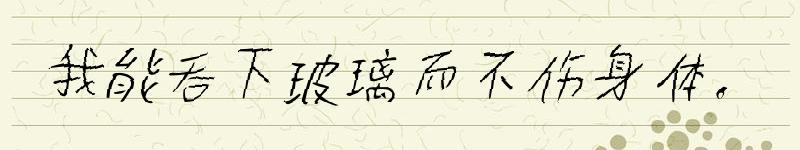
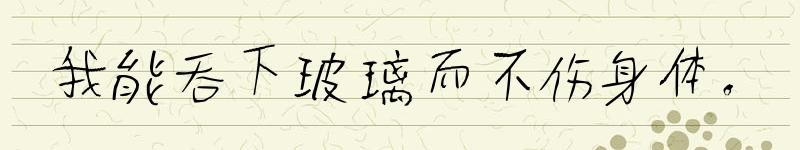
del test_expovariate.py; update test_handwrite.py; minor change of pylf.core; update demo.

Changed region(s): [[0.0625, 0.2933, 0.9375, 0.72], [0.25, 0.3467, 0.2812, 0.3733]]

diff --git a/pylf/core.py b/pylf/core.py
@@ -65,8 +65,9 @@ def handwrite(text, template: dict, anti_aliasing: bool=True, worker: int=0) -> 
 
     :param anti_aliasing: whether or not turn on the anti-aliasing.
         It will do the anti-aliasing with using 2X SSAA. Generally, to turn off this anti-aliasing option would
-        significantly reduce the calculation.
+        significantly reduce the computational cost.
         default True.
+
     :param worker: the number of worker.
         if worker <= 0, the actual amount of worker would be multiprocessing.cpu_count() + worker.
         default 0 (use all available CPU in the computer).
@@ -220,13 +221,15 @@ def _perturb_factory(x_amplitude, y_amplitude, x_wavelength, y_wavelength, x_lam
 
 
 def _downsample(image):
-    width, height = image.size
-    sampled_image = PIL.Image.new('RGBA', (width//2, height//2), color=(0, 0, 0, 0))
-    spx = sampled_image.load()
-    px = image.load()
-    for x in range(0, width, 2):
-        for y in range(0, height, 2):
-            spx[x//2, y//2] = tuple(sum(i)//4 for i in zip(px[x, y], px[x+1, y], px[x, y+1], px[x+1, y+1]))
+    """
+    Downsample for 2X SSAA.
+    """
+    width, height = image.size[0] // 2, image.size[1] // 2
+    sampled_image = PIL.Image.new('RGBA', (width, height), color=(0, 0, 0, 0))
+    spx, px = sampled_image.load(), image.load()
+    for x in range(width):
+        for y in range(height):
+            spx[x, y] = tuple(sum(i)//4 for i in zip(px[2*x, 2*y], px[2*x+1, 2*y], px[2*x, 2*y+1], px[2*x+1, 2*y+1]))
     return sampled_image
 
 

diff --git a/tests/test_handwrite.py b/tests/test_handwrite.py
@@ -30,12 +30,17 @@ def main():
         images = handwrite(text, template)
         for image in images:
             image.show()
-        # input("""{} has been written.
-        # press ENTER to continues""".format(filename))
 
+    text = "测试关闭SSAA抗锯齿的效果"
+    images = handwrite(text, template, anti_aliasing=False)
+    for image in images:
+        image.show()
+
+    text = """测试‘box’比背景图大的情况。测试‘box’比背景图大的情况。
+    测试‘box’比背景图大的情况。测试‘box’比背景图大的情况。
+    测试‘box’比背景图大的情况。测试‘box’比背景图大的情况。
+    测试‘box’比背景图大的情况。测试‘box’比背景图大的情况。"""
     template['box'] = (-100, -100, im.width+100, im.height+100)
-    with open("./data/texts/荷塘月色.txt") as f:
-        text = f.read()
     images = handwrite(text, template)
     for image in images:
         image.show()
